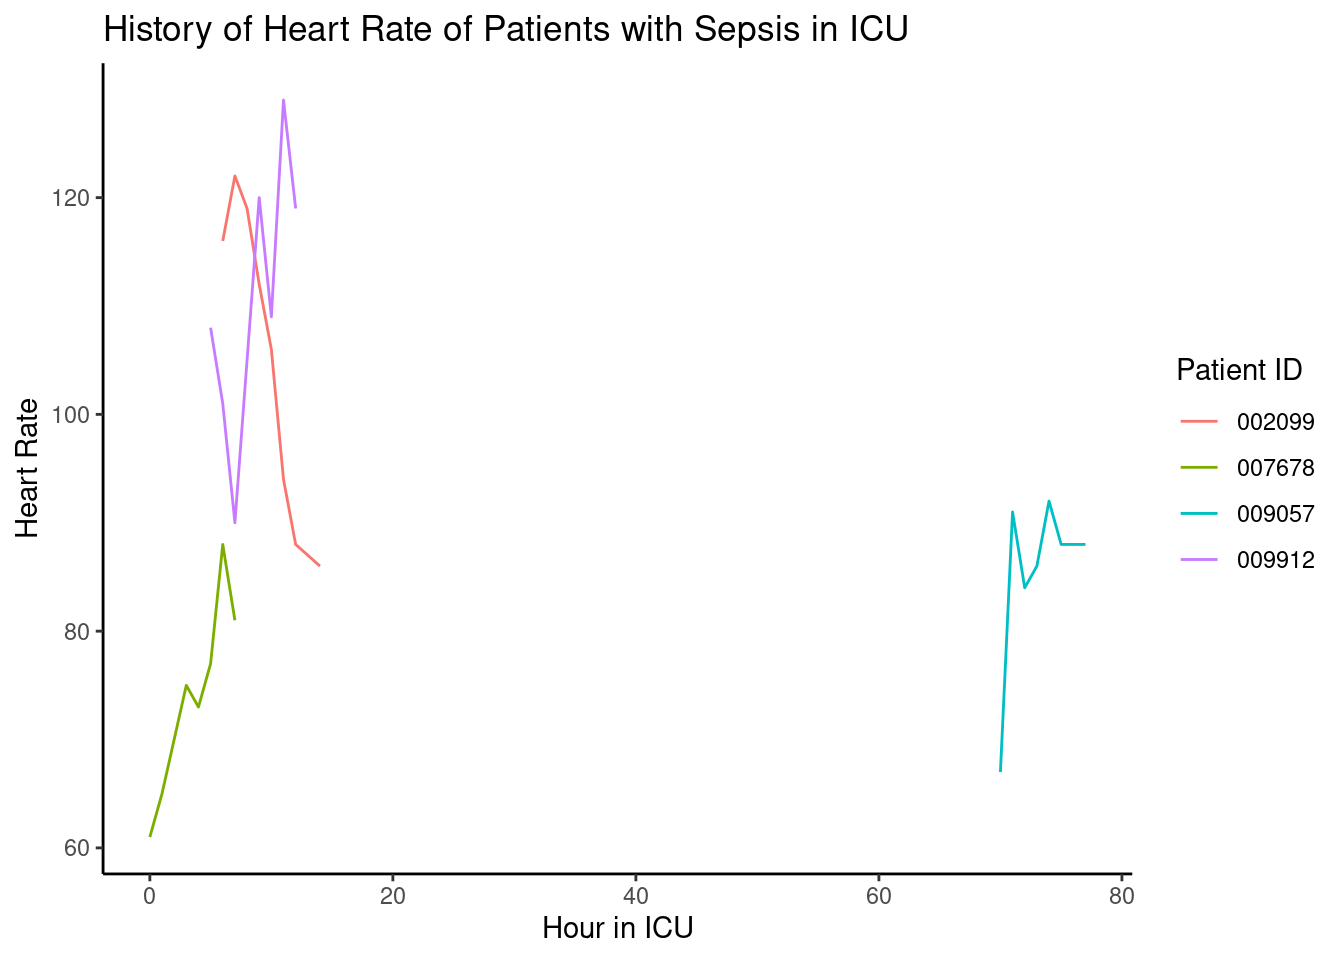
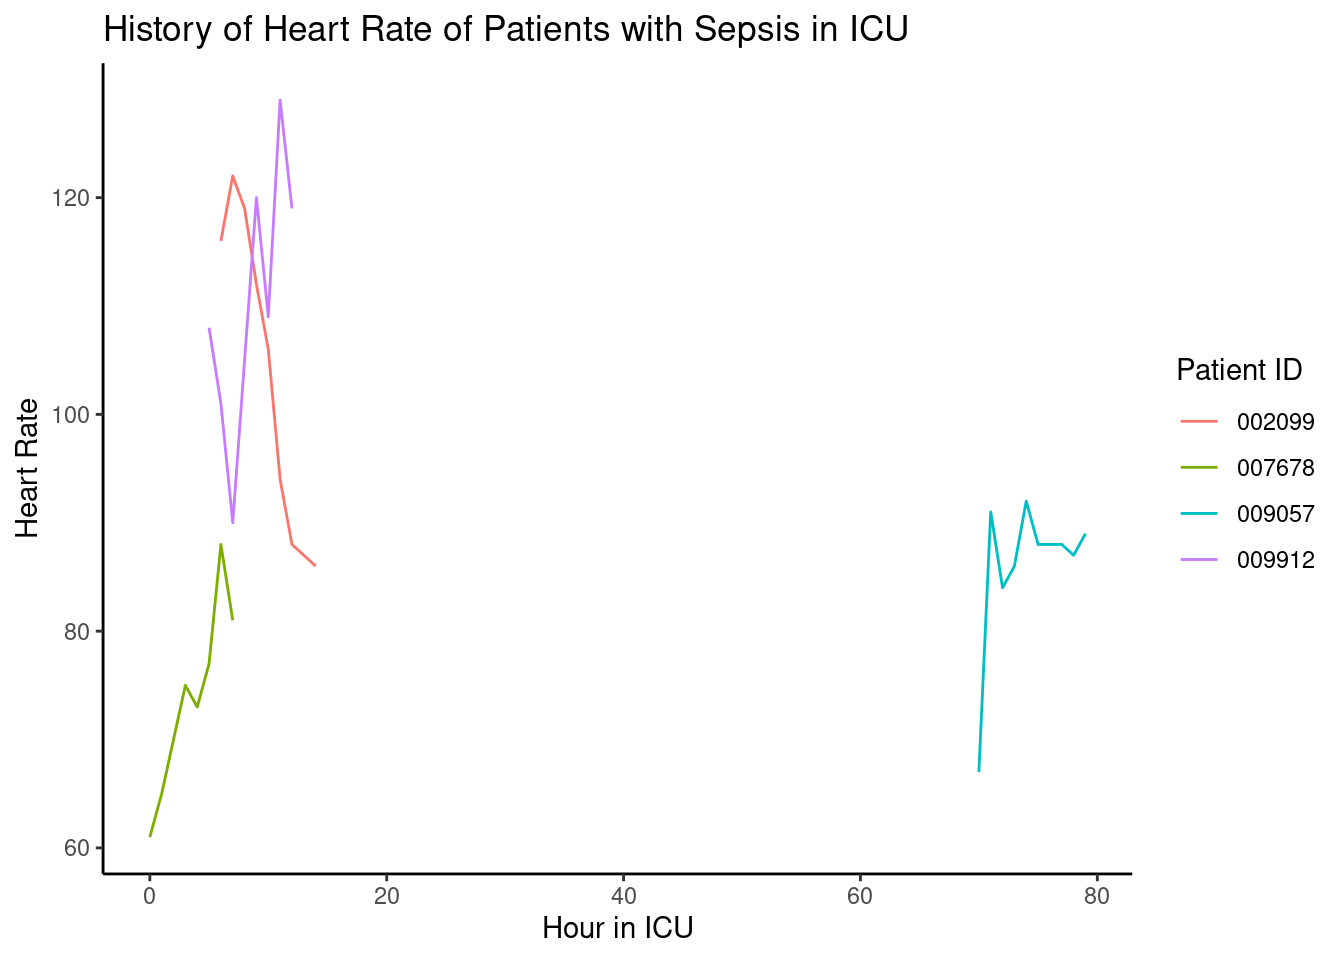
Updated report

diff --git a/HW7.html b/HW7.html
@@ -72,7 +72,7 @@ ul.task-list li input[type="checkbox"] {
 
 <div class="cell">
 <div class="cell-output cell-output-stdout">
-<pre><code>This report was updated at 2023-04-09 17:15:29 CDT</code></pre>
+<pre><code>This report was updated at 2023-04-09 18:21:36 CDT</code></pre>
 </div>
 </div>
 <div class="cell">
@@ -103,9 +103,9 @@ ul.task-list li input[type="checkbox"] {
   </tr>
   <tr>
    <td style="text-align:left;"> 009057 </td>
-   <td style="text-align:right;"> 88 </td>
-   <td style="text-align:right;"> 37.78 </td>
-   <td style="text-align:right;"> 11 </td>
+   <td style="text-align:right;"> 89 </td>
+   <td style="text-align:right;"> NA </td>
+   <td style="text-align:right;"> 17 </td>
   </tr>
   <tr>
    <td style="text-align:left;"> 009912 </td>
@@ -415,9 +415,9 @@ ul.task-list li input[type="checkbox"] {
   </tr>
   <tr>
    <td style="text-align:left;font-weight: bold;color: black !important;background-color: lightgrey !important;border-right:1px solid;"> 009057 </td>
-   <td style="text-align:right;"> 0 </td>
+   <td style="text-align:right;"> 2 </td>
    <td style="text-align:right;"> NA </td>
-   <td style="text-align:right;"> -7 </td>
+   <td style="text-align:right;"> 1 </td>
   </tr>
   <tr>
    <td style="text-align:left;font-weight: bold;color: black !important;background-color: lightgrey !important;border-right:1px solid;"> 009141 </td>
